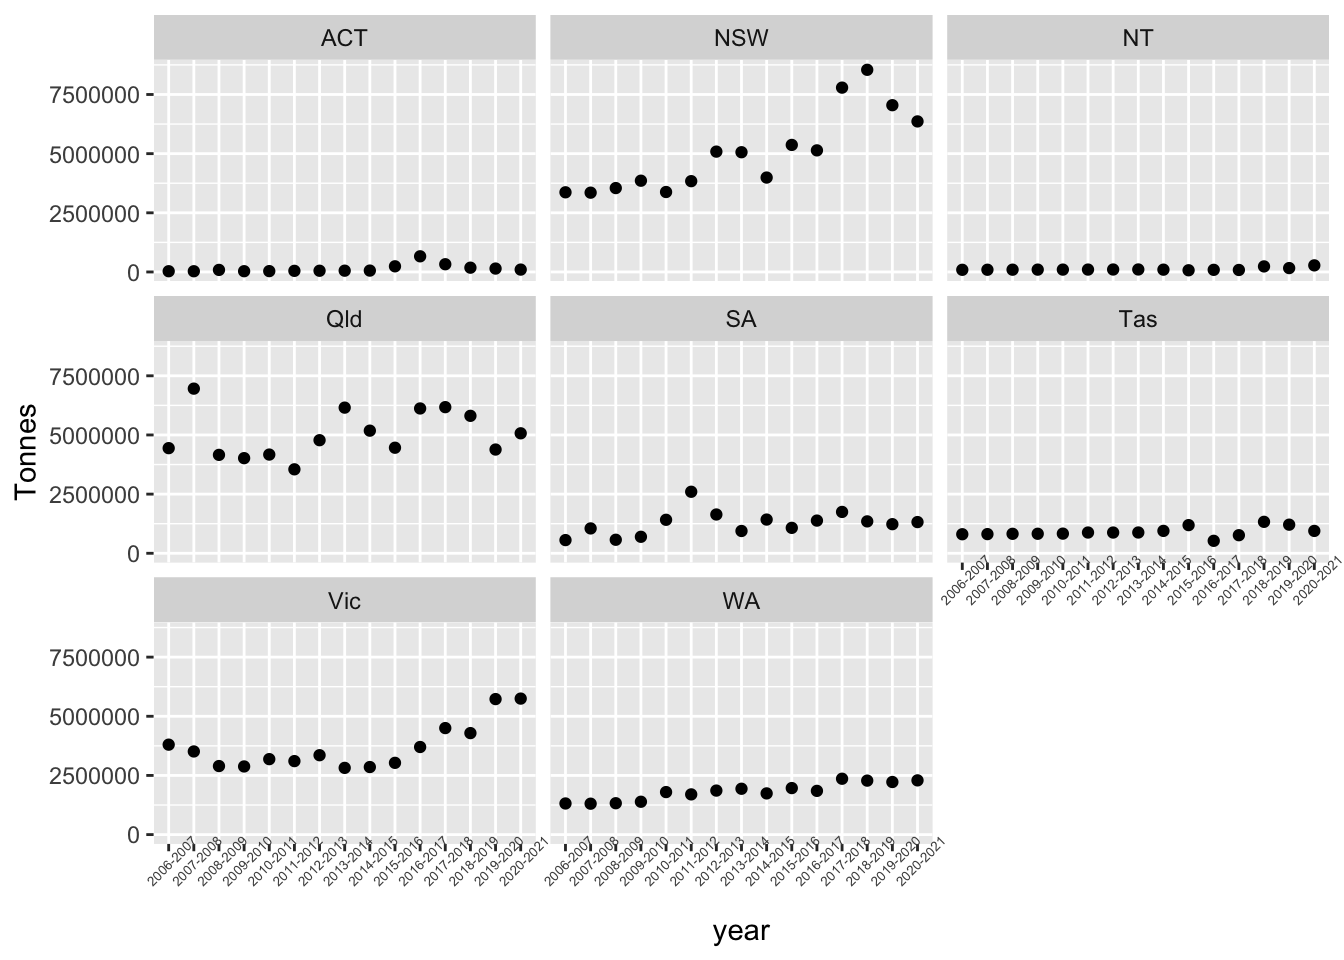
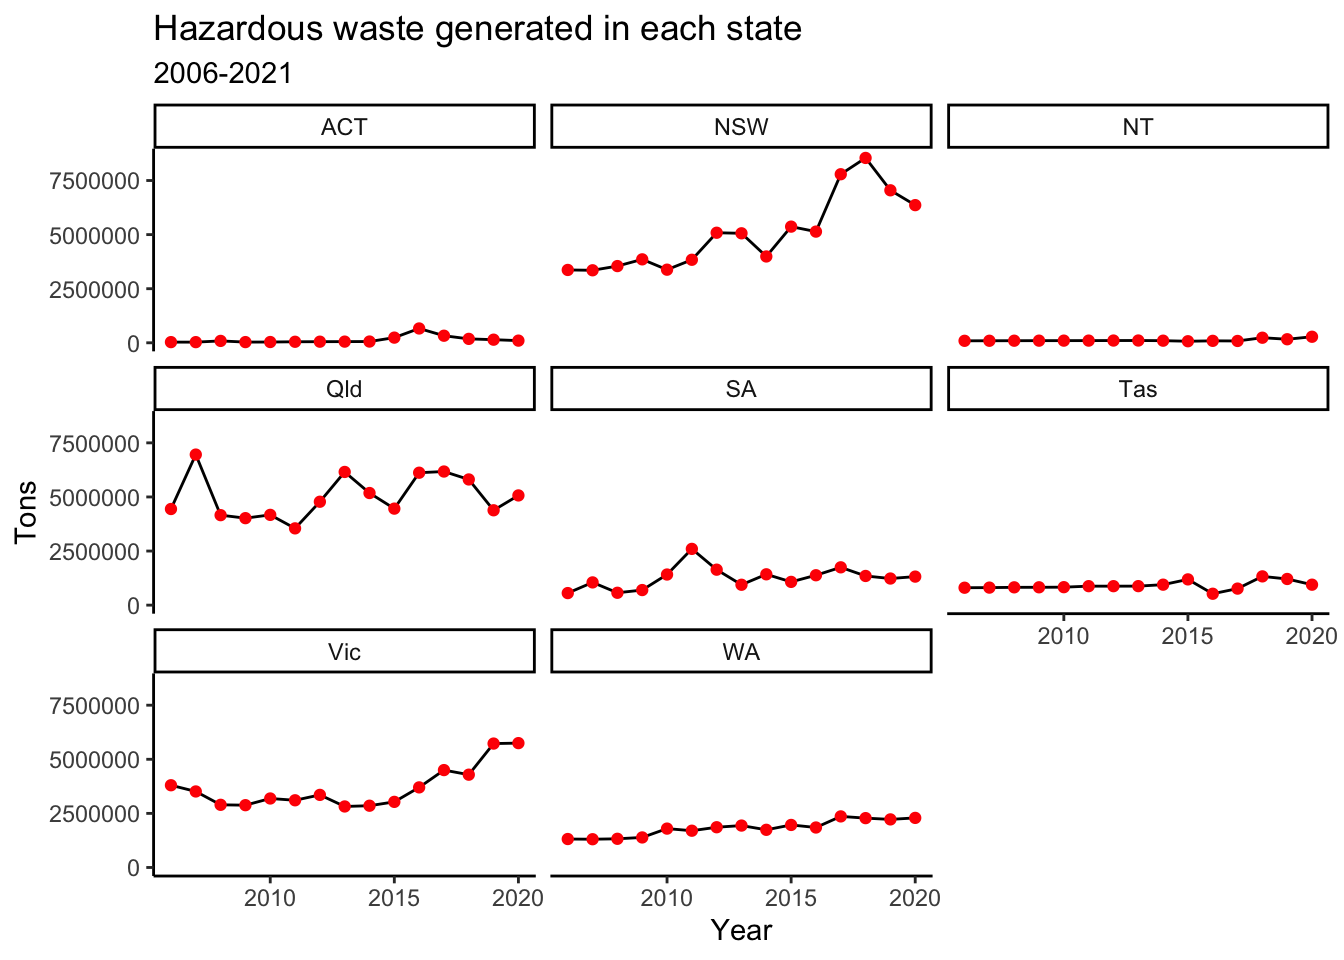
Waste management technique of hazardous waste analysed

diff --git a/MDSS_datathon.html b/MDSS_datathon.html
@@ -102,55 +102,16 @@ pre > code.sourceCode > span > a:first-child::before { text-decoration: underlin
 </header>
 
 <div class="cell">
-<div class="sourceCode cell-code" id="cb1"><pre class="sourceCode r code-with-copy"><code class="sourceCode r"><span id="cb1-1"><a href="#cb1-1" aria-hidden="true" tabindex="-1"></a><span class="fu">library</span>(tidyverse)</span></code><button title="Copy to Clipboard" class="code-copy-button"><i class="bi"></i></button></pre></div>
-<div class="cell-output cell-output-stderr">
-<pre><code>── Attaching core tidyverse packages ──────────────────────── tidyverse 2.0.0 ──
-✔ dplyr     1.1.3     ✔ readr     2.1.4
-✔ forcats   1.0.0     ✔ stringr   1.5.0
-✔ ggplot2   3.4.3     ✔ tibble    3.2.1
-✔ lubridate 1.9.3     ✔ tidyr     1.3.0
-✔ purrr     1.0.2     
-── Conflicts ────────────────────────────────────────── tidyverse_conflicts() ──
-✖ dplyr::filter() masks stats::filter()
-✖ dplyr::lag()    masks stats::lag()
-ℹ Use the conflicted package (&lt;http://conflicted.r-lib.org/&gt;) to force all conflicts to become errors</code></pre>
-</div>
-<div class="sourceCode cell-code" id="cb3"><pre class="sourceCode r code-with-copy"><code class="sourceCode r"><span id="cb3-1"><a href="#cb3-1" aria-hidden="true" tabindex="-1"></a><span class="fu">library</span>(ggplot2)</span>
-<span id="cb3-2"><a href="#cb3-2" aria-hidden="true" tabindex="-1"></a><span class="fu">library</span>(visdat)</span>
-<span id="cb3-3"><a href="#cb3-3" aria-hidden="true" tabindex="-1"></a><span class="fu">library</span>(janitor)</span></code><button title="Copy to Clipboard" class="code-copy-button"><i class="bi"></i></button></pre></div>
-<div class="cell-output cell-output-stderr">
-<pre><code>
-Attaching package: 'janitor'
-
-The following objects are masked from 'package:stats':
-
-    chisq.test, fisher.test</code></pre>
-</div>
+<div class="sourceCode cell-code" id="cb1"><pre class="sourceCode r code-with-copy"><code class="sourceCode r"><span id="cb1-1"><a href="#cb1-1" aria-hidden="true" tabindex="-1"></a><span class="fu">library</span>(tidyverse)</span>
+<span id="cb1-2"><a href="#cb1-2" aria-hidden="true" tabindex="-1"></a><span class="fu">library</span>(ggplot2)</span>
+<span id="cb1-3"><a href="#cb1-3" aria-hidden="true" tabindex="-1"></a><span class="fu">library</span>(visdat)</span>
+<span id="cb1-4"><a href="#cb1-4" aria-hidden="true" tabindex="-1"></a><span class="fu">library</span>(janitor)</span>
+<span id="cb1-5"><a href="#cb1-5" aria-hidden="true" tabindex="-1"></a><span class="fu">library</span>(plotly)</span>
+<span id="cb1-6"><a href="#cb1-6" aria-hidden="true" tabindex="-1"></a><span class="fu">library</span>(ggthemes)</span></code><button title="Copy to Clipboard" class="code-copy-button"><i class="bi"></i></button></pre></div>
 </div>
 <div class="cell">
-<div class="sourceCode cell-code" id="cb5"><pre class="sourceCode r code-with-copy"><code class="sourceCode r"><span id="cb5-1"><a href="#cb5-1" aria-hidden="true" tabindex="-1"></a>df <span class="ot">&lt;-</span> <span class="fu">read_csv</span>(<span class="st">"data-raw/data_waste.csv"</span>)</span></code><button title="Copy to Clipboard" class="code-copy-button"><i class="bi"></i></button></pre></div>
-<div class="cell-output cell-output-stderr">
-<pre><code>New names:
-• `` -&gt; `...17`</code></pre>
-</div>
-<div class="cell-output cell-output-stderr">
-<pre><code>Warning: One or more parsing issues, call `problems()` on your data frame for details,
-e.g.:
-  dat &lt;- vroom(...)
-  problems(dat)</code></pre>
-</div>
-<div class="cell-output cell-output-stderr">
-<pre><code>Rows: 71496 Columns: 17
-── Column specification ────────────────────────────────────────────────────────
-Delimiter: ","
-chr (15): Year, Jurisdiction, Category, Type, Classification, Total type, St...
-num  (1): Tonnes
-lgl  (1): ...17
-
-ℹ Use `spec()` to retrieve the full column specification for this data.
-ℹ Specify the column types or set `show_col_types = FALSE` to quiet this message.</code></pre>
-</div>
-<div class="sourceCode cell-code" id="cb9"><pre class="sourceCode r code-with-copy"><code class="sourceCode r"><span id="cb9-1"><a href="#cb9-1" aria-hidden="true" tabindex="-1"></a><span class="fu">head</span>(df)</span></code><button title="Copy to Clipboard" class="code-copy-button"><i class="bi"></i></button></pre></div>
+<div class="sourceCode cell-code" id="cb2"><pre class="sourceCode r code-with-copy"><code class="sourceCode r"><span id="cb2-1"><a href="#cb2-1" aria-hidden="true" tabindex="-1"></a>df <span class="ot">&lt;-</span> <span class="fu">read_csv</span>(<span class="st">"data-raw/data_waste.csv"</span>)</span>
+<span id="cb2-2"><a href="#cb2-2" aria-hidden="true" tabindex="-1"></a><span class="fu">head</span>(df)</span></code><button title="Copy to Clipboard" class="code-copy-button"><i class="bi"></i></button></pre></div>
 <div class="cell-output cell-output-stdout">
 <pre><code># A tibble: 6 × 17
   Year      Jurisdiction Category  Type      Classification `Total type` Stream
@@ -168,43 +129,78 @@ lgl  (1): ...17
 </div>
 <p>Let us clean the names of the variables</p>
 <div class="cell">
-<div class="sourceCode cell-code" id="cb11"><pre class="sourceCode r code-with-copy"><code class="sourceCode r"><span id="cb11-1"><a href="#cb11-1" aria-hidden="true" tabindex="-1"></a>df_waste <span class="ot">&lt;-</span> <span class="fu">clean_names</span>(df)</span>
-<span id="cb11-2"><a href="#cb11-2" aria-hidden="true" tabindex="-1"></a><span class="fu">head</span>(df_waste)</span></code><button title="Copy to Clipboard" class="code-copy-button"><i class="bi"></i></button></pre></div>
+<div class="sourceCode cell-code" id="cb4"><pre class="sourceCode r code-with-copy"><code class="sourceCode r"><span id="cb4-1"><a href="#cb4-1" aria-hidden="true" tabindex="-1"></a>df_waste <span class="ot">&lt;-</span> <span class="fu">clean_names</span>(df)</span>
+<span id="cb4-2"><a href="#cb4-2" aria-hidden="true" tabindex="-1"></a></span>
+<span id="cb4-3"><a href="#cb4-3" aria-hidden="true" tabindex="-1"></a></span>
+<span id="cb4-4"><a href="#cb4-4" aria-hidden="true" tabindex="-1"></a>df_waste[<span class="fu">c</span>(<span class="st">"start_year"</span>,<span class="st">"end_year"</span>)] <span class="ot">&lt;-</span> (<span class="fu">str_split_fixed</span>(df_waste<span class="sc">$</span>year,<span class="st">"-"</span>,<span class="dv">2</span>))</span>
+<span id="cb4-5"><a href="#cb4-5" aria-hidden="true" tabindex="-1"></a>df_waste<span class="sc">$</span>start_year <span class="ot">&lt;-</span> <span class="fu">as.numeric</span>(df_waste<span class="sc">$</span>start_year)</span>
+<span id="cb4-6"><a href="#cb4-6" aria-hidden="true" tabindex="-1"></a>df_waste<span class="sc">$</span>end_year <span class="ot">&lt;-</span> <span class="fu">as.numeric</span>(df_waste<span class="sc">$</span>end_year)</span>
+<span id="cb4-7"><a href="#cb4-7" aria-hidden="true" tabindex="-1"></a></span>
+<span id="cb4-8"><a href="#cb4-8" aria-hidden="true" tabindex="-1"></a>df_waste<span class="ot">&lt;-</span> df_waste<span class="sc">%&gt;%</span> <span class="fu">select</span>(<span class="sc">-</span>year) </span>
+<span id="cb4-9"><a href="#cb4-9" aria-hidden="true" tabindex="-1"></a></span>
+<span id="cb4-10"><a href="#cb4-10" aria-hidden="true" tabindex="-1"></a><span class="fu">head</span>(df_waste)</span></code><button title="Copy to Clipboard" class="code-copy-button"><i class="bi"></i></button></pre></div>
 <div class="cell-output cell-output-stdout">
-<pre><code># A tibble: 6 × 17
-  year   jurisdiction category type  classification total_type stream management
-  &lt;chr&gt;  &lt;chr&gt;        &lt;chr&gt;    &lt;chr&gt; &lt;chr&gt;          &lt;chr&gt;      &lt;chr&gt;  &lt;chr&gt;     
-1 2020-… ACT          Biosoli… Bios… Type           &lt;NA&gt;       C&amp;I    Other dis…
-2 2020-… ACT          Biosoli… Bios… Type           &lt;NA&gt;       C&amp;I    Recycling 
-3 2020-… ACT          Biosoli… Bios… Type           &lt;NA&gt;       Total  Other dis…
-4 2020-… ACT          Biosoli… Bios… Type           &lt;NA&gt;       Total  Recycling 
-5 2020-… ACT          Biosoli… &lt;NA&gt;  Category       &lt;NA&gt;       C&amp;I    Other dis…
-6 2020-… ACT          Biosoli… &lt;NA&gt;  Category       &lt;NA&gt;       C&amp;I    Recycling 
-# ℹ 9 more variables: fate &lt;chr&gt;, tonnes &lt;dbl&gt;, core_or_non_core &lt;chr&gt;,
-#   sub_stream &lt;chr&gt;, cat_order &lt;chr&gt;, cat_no &lt;chr&gt;, type_order &lt;chr&gt;,
-#   type_no &lt;chr&gt;, x17 &lt;lgl&gt;</code></pre>
+<pre><code># A tibble: 6 × 18
+  jurisdiction category  type  classification total_type stream management fate 
+  &lt;chr&gt;        &lt;chr&gt;     &lt;chr&gt; &lt;chr&gt;          &lt;chr&gt;      &lt;chr&gt;  &lt;chr&gt;      &lt;chr&gt;
+1 ACT          Biosolids Bios… Type           &lt;NA&gt;       C&amp;I    Other dis… Disp…
+2 ACT          Biosolids Bios… Type           &lt;NA&gt;       C&amp;I    Recycling  Recy…
+3 ACT          Biosolids Bios… Type           &lt;NA&gt;       Total  Other dis… Disp…
+4 ACT          Biosolids Bios… Type           &lt;NA&gt;       Total  Recycling  Recy…
+5 ACT          Biosolids &lt;NA&gt;  Category       &lt;NA&gt;       C&amp;I    Other dis… Disp…
+6 ACT          Biosolids &lt;NA&gt;  Category       &lt;NA&gt;       C&amp;I    Recycling  Recy…
+# ℹ 10 more variables: tonnes &lt;dbl&gt;, core_or_non_core &lt;chr&gt;, sub_stream &lt;chr&gt;,
+#   cat_order &lt;chr&gt;, cat_no &lt;chr&gt;, type_order &lt;chr&gt;, type_no &lt;chr&gt;, x17 &lt;lgl&gt;,
+#   start_year &lt;dbl&gt;, end_year &lt;dbl&gt;</code></pre>
 </div>
 </div>
 <section id="hazardous-waste" class="level1">
 <h1>Hazardous waste</h1>
 <div class="cell">
-<div class="sourceCode cell-code" id="cb13"><pre class="sourceCode r code-with-copy"><code class="sourceCode r"><span id="cb13-1"><a href="#cb13-1" aria-hidden="true" tabindex="-1"></a>df_haz <span class="ot">&lt;-</span> df_waste <span class="sc">%&gt;%</span> <span class="fu">filter</span>(category <span class="sc">==</span> <span class="st">"Hazardous wastes"</span>)</span>
-<span id="cb13-2"><a href="#cb13-2" aria-hidden="true" tabindex="-1"></a>df_haz_tot <span class="ot">&lt;-</span> df_haz <span class="sc">%&gt;%</span> <span class="fu">filter</span>(stream <span class="sc">==</span> <span class="st">"Total"</span>)</span>
-<span id="cb13-3"><a href="#cb13-3" aria-hidden="true" tabindex="-1"></a>df_haz_total <span class="ot">&lt;-</span> df_haz_tot <span class="sc">%&gt;%</span> <span class="fu">group_by</span>(year,jurisdiction,category) <span class="sc">%&gt;%</span> </span>
-<span id="cb13-4"><a href="#cb13-4" aria-hidden="true" tabindex="-1"></a>  <span class="fu">summarise</span>(<span class="at">Tonnes =</span> <span class="fu">sum</span>(tonnes)) <span class="sc">%&gt;%</span> <span class="fu">ungroup</span>()</span></code><button title="Copy to Clipboard" class="code-copy-button"><i class="bi"></i></button></pre></div>
-<div class="cell-output cell-output-stderr">
-<pre><code>`summarise()` has grouped output by 'year', 'jurisdiction'. You can override
-using the `.groups` argument.</code></pre>
-</div>
+<div class="sourceCode cell-code" id="cb6"><pre class="sourceCode r code-with-copy"><code class="sourceCode r"><span id="cb6-1"><a href="#cb6-1" aria-hidden="true" tabindex="-1"></a>df_haz <span class="ot">&lt;-</span> df_waste <span class="sc">%&gt;%</span> <span class="fu">filter</span>(category <span class="sc">==</span> <span class="st">"Hazardous wastes"</span>)</span>
+<span id="cb6-2"><a href="#cb6-2" aria-hidden="true" tabindex="-1"></a>df_haz_tot <span class="ot">&lt;-</span> df_haz <span class="sc">%&gt;%</span> <span class="fu">filter</span>(stream <span class="sc">==</span> <span class="st">"Total"</span>)</span>
+<span id="cb6-3"><a href="#cb6-3" aria-hidden="true" tabindex="-1"></a>df_haz_total <span class="ot">&lt;-</span> df_haz_tot <span class="sc">%&gt;%</span> <span class="fu">group_by</span>(start_year,jurisdiction,category) <span class="sc">%&gt;%</span> </span>
+<span id="cb6-4"><a href="#cb6-4" aria-hidden="true" tabindex="-1"></a>  <span class="fu">summarise</span>(<span class="at">Tonnes =</span> <span class="fu">sum</span>(tonnes)) <span class="sc">%&gt;%</span> </span>
+<span id="cb6-5"><a href="#cb6-5" aria-hidden="true" tabindex="-1"></a>  <span class="fu">ungroup</span>() </span></code><button title="Copy to Clipboard" class="code-copy-button"><i class="bi"></i></button></pre></div>
 </div>
 <div class="cell">
-<div class="sourceCode cell-code" id="cb15"><pre class="sourceCode r code-with-copy"><code class="sourceCode r"><span id="cb15-1"><a href="#cb15-1" aria-hidden="true" tabindex="-1"></a>pl1 <span class="ot">&lt;-</span> <span class="fu">ggplot</span>(<span class="at">data =</span> df_haz_total,<span class="fu">aes</span>(<span class="at">x =</span> year,<span class="at">y =</span> Tonnes)) <span class="sc">+</span></span>
-<span id="cb15-2"><a href="#cb15-2" aria-hidden="true" tabindex="-1"></a>  <span class="fu">geom_point</span>() <span class="sc">+</span> <span class="fu">theme</span>(<span class="at">axis.text.x =</span> <span class="fu">element_text</span>(<span class="at">angle =</span> <span class="dv">45</span>,<span class="at">size=</span><span class="dv">5</span>)) <span class="sc">+</span> <span class="fu">facet_wrap</span>(<span class="sc">~</span>jurisdiction)</span>
-<span id="cb15-3"><a href="#cb15-3" aria-hidden="true" tabindex="-1"></a>pl1</span></code><button title="Copy to Clipboard" class="code-copy-button"><i class="bi"></i></button></pre></div>
+<div class="sourceCode cell-code" id="cb7"><pre class="sourceCode r code-with-copy"><code class="sourceCode r"><span id="cb7-1"><a href="#cb7-1" aria-hidden="true" tabindex="-1"></a>pl1 <span class="ot">&lt;-</span> <span class="fu">ggplot</span>(<span class="at">data =</span> df_haz_total,<span class="fu">aes</span>(<span class="at">x =</span> start_year,<span class="at">y =</span> Tonnes)) <span class="sc">+</span></span>
+<span id="cb7-2"><a href="#cb7-2" aria-hidden="true" tabindex="-1"></a>  <span class="fu">geom_line</span>() <span class="sc">+</span> <span class="fu">geom_point</span>(<span class="at">color=</span><span class="st">'red'</span>) <span class="sc">+</span> <span class="fu">theme</span>(<span class="at">axis.text.x =</span> <span class="fu">element_text</span>(<span class="at">angle =</span> <span class="dv">45</span>,<span class="at">size=</span><span class="dv">5</span>)) <span class="sc">+</span> <span class="fu">facet_wrap</span>(<span class="sc">~</span>jurisdiction) <span class="sc">+</span> <span class="fu">labs</span>(<span class="at">x =</span> <span class="st">"Year"</span>,<span class="at">y =</span> <span class="st">"Tons"</span>,<span class="at">title =</span> <span class="st">"Hazardous waste generated in each state"</span>,<span class="at">subtitle =</span> <span class="st">"2006-2021"</span>) <span class="sc">+</span> <span class="fu">theme_classic</span>()</span>
+<span id="cb7-3"><a href="#cb7-3" aria-hidden="true" tabindex="-1"></a>pl1</span></code><button title="Copy to Clipboard" class="code-copy-button"><i class="bi"></i></button></pre></div>
 <div class="cell-output-display">
 <p><img src="MDSS_datathon_files/figure-html/unnamed-chunk-5-1.png" class="img-fluid" width="672"></p>
 </div>
 </div>
+<ol type="1">
+<li>NSW accounts for the highest hazardous waste in the whole of Australia with close to 8.5 MT. The hazardous wastes are on a rising trend.</li>
+<li>QLD is observed to record constant generation of hazardous waste each year with approximate 6 MT.</li>
+<li>VIC is observed to record a rising trend of hazardous waste in recent years with close to 5.75 MT in 2021.</li>
+</ol>
+<section id="how-is-the-hazardous-waste-dealt-with-in-each-state" class="level2">
+<h2 class="anchored" data-anchor-id="how-is-the-hazardous-waste-dealt-with-in-each-state">How is the Hazardous waste dealt with in each state ?</h2>
+<div class="cell">
+<div class="sourceCode cell-code" id="cb8"><pre class="sourceCode r code-with-copy"><code class="sourceCode r"><span id="cb8-1"><a href="#cb8-1" aria-hidden="true" tabindex="-1"></a>haz_jurisdictions <span class="ot">&lt;-</span> <span class="fu">c</span>(<span class="st">"NSW"</span>,<span class="st">"Vic"</span>,<span class="st">"Qld"</span>)</span>
+<span id="cb8-2"><a href="#cb8-2" aria-hidden="true" tabindex="-1"></a>df_haz_subset <span class="ot">&lt;-</span> df_haz_tot <span class="sc">%&gt;%</span> <span class="fu">filter</span>(jurisdiction <span class="sc">%in%</span> haz_jurisdictions)</span>
+<span id="cb8-3"><a href="#cb8-3" aria-hidden="true" tabindex="-1"></a></span>
+<span id="cb8-4"><a href="#cb8-4" aria-hidden="true" tabindex="-1"></a>df_haz_man <span class="ot">&lt;-</span> df_haz_subset <span class="sc">%&gt;%</span> <span class="fu">group_by</span>(jurisdiction,management) <span class="sc">%&gt;%</span> </span>
+<span id="cb8-5"><a href="#cb8-5" aria-hidden="true" tabindex="-1"></a>  <span class="fu">summarise</span>(<span class="at">Tonnes =</span> <span class="fu">sum</span>(tonnes)) <span class="sc">%&gt;%</span> <span class="fu">ungroup</span>()</span>
+<span id="cb8-6"><a href="#cb8-6" aria-hidden="true" tabindex="-1"></a></span>
+<span id="cb8-7"><a href="#cb8-7" aria-hidden="true" tabindex="-1"></a></span>
+<span id="cb8-8"><a href="#cb8-8" aria-hidden="true" tabindex="-1"></a>pl2 <span class="ot">&lt;-</span> <span class="fu">ggplot</span>(<span class="at">data =</span> df_haz_man,<span class="fu">aes</span>(<span class="at">x =</span> <span class="fu">reorder</span>(management,Tonnes),<span class="at">y =</span> Tonnes<span class="sc">/</span><span class="dv">10</span><span class="sc">^</span><span class="dv">6</span>)) <span class="sc">+</span> <span class="fu">geom_col</span>(<span class="at">fill =</span> <span class="st">"lightgray"</span>,<span class="at">color =</span> <span class="st">"black"</span>) <span class="sc">+</span> </span>
+<span id="cb8-9"><a href="#cb8-9" aria-hidden="true" tabindex="-1"></a>  <span class="fu">facet_wrap</span>(<span class="sc">~</span>jurisdiction) <span class="sc">+</span> <span class="fu">coord_flip</span>() <span class="sc">+</span> <span class="fu">geom_col</span>(<span class="at">data =</span> <span class="sc">~</span><span class="fu">filter</span>(.x, management <span class="sc">==</span> <span class="st">"Landfill"</span>),<span class="at">fill =</span> <span class="st">"darkred"</span>) <span class="sc">+</span> <span class="fu">geom_label</span>(<span class="at">data =</span> <span class="sc">~</span><span class="fu">filter</span>(.x, management <span class="sc">==</span> <span class="st">"Landfill"</span>),<span class="fu">aes</span>(<span class="at">label =</span> <span class="fu">round</span>(Tonnes<span class="sc">/</span><span class="dv">10</span><span class="sc">^</span><span class="dv">6</span>,<span class="dv">1</span>),<span class="at">hjust=</span><span class="dv">1</span>)) <span class="sc">+</span> <span class="fu">geom_col</span>(<span class="at">data =</span> <span class="sc">~</span><span class="fu">filter</span>(.x, management <span class="sc">==</span> <span class="st">"Energy from waste facility"</span>),<span class="at">fill =</span> <span class="st">"green"</span>) <span class="sc">+</span> <span class="fu">geom_label</span>(<span class="at">data =</span> <span class="sc">~</span><span class="fu">filter</span>(.x, management <span class="sc">==</span> <span class="st">"Landfill"</span>),<span class="fu">aes</span>(<span class="at">label =</span> <span class="fu">round</span>(Tonnes<span class="sc">/</span><span class="dv">10</span><span class="sc">^</span><span class="dv">6</span>,<span class="dv">1</span>),<span class="at">hjust=</span><span class="dv">1</span>)) <span class="sc">+</span> <span class="fu">geom_label</span>(<span class="at">data =</span> <span class="sc">~</span><span class="fu">filter</span>(.x, management <span class="sc">==</span> <span class="st">"Energy from waste facility"</span>),<span class="fu">aes</span>(<span class="at">label =</span> <span class="fu">round</span>(Tonnes<span class="sc">/</span><span class="dv">10</span><span class="sc">^</span><span class="dv">6</span>,<span class="dv">1</span>),<span class="at">hjust=</span><span class="sc">-</span><span class="fl">0.5</span>)) <span class="sc">+</span> </span>
+<span id="cb8-10"><a href="#cb8-10" aria-hidden="true" tabindex="-1"></a>  <span class="fu">labs</span>(<span class="at">x =</span> <span class="st">"Waste management technique"</span>,<span class="at">y =</span> <span class="st">"Mega tonnes of waste"</span>,<span class="at">title =</span><span class="st">"Hazardous waste management in the top 3 </span><span class="sc">\n</span><span class="st"> waste producing states"</span>,<span class="at">subtitle =</span> <span class="st">"2006-2021"</span>) <span class="sc">+</span> <span class="fu">theme_economist</span>() </span>
+<span id="cb8-11"><a href="#cb8-11" aria-hidden="true" tabindex="-1"></a>pl2</span></code><button title="Copy to Clipboard" class="code-copy-button"><i class="bi"></i></button></pre></div>
+<div class="cell-output-display">
+<p><img src="MDSS_datathon_files/figure-html/unnamed-chunk-6-1.png" class="img-fluid" width="672"></p>
+</div>
+</div>
+<p>We observe that the:</p>
+<ol type="1">
+<li><p>In all the three states (NSW,Qld,Vic), majority of the hazardous waste are managed through disposing in landfills. While this may be a temporary solution, the implications can be quite devastating <strong>as such waste normally take years to decompose and start polluting the water ways as well as pottable water resources.</strong></p></li>
+<li><p>While there have been efforts to utilise hazardous waste to produce energy, it is still a long way behind, with more concerted efforts required by each state to curb disposal of hazardous waste into landfills and obtain clean energy.</p></li>
+<li><p>While <strong>VIC is observed to generate lesser hazardous waste than NSW and QLD, they’re also leading with the highest energy production from waste facilities</strong> with approximately 1.6 Mega tonnes of waste utilised.</p></li>
+</ol>
+</section>
 </section>
 
 </main>
